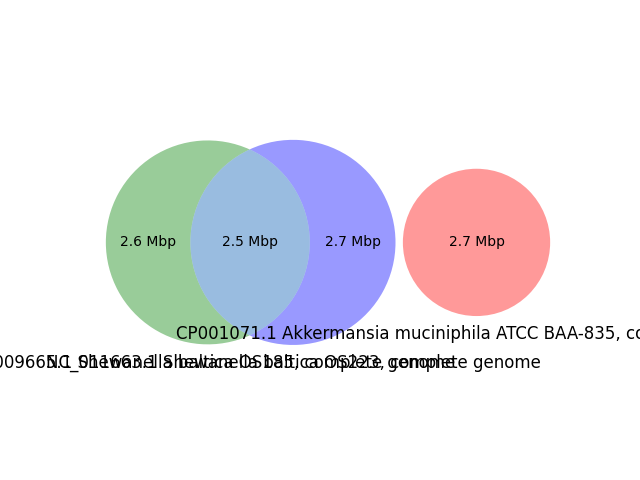
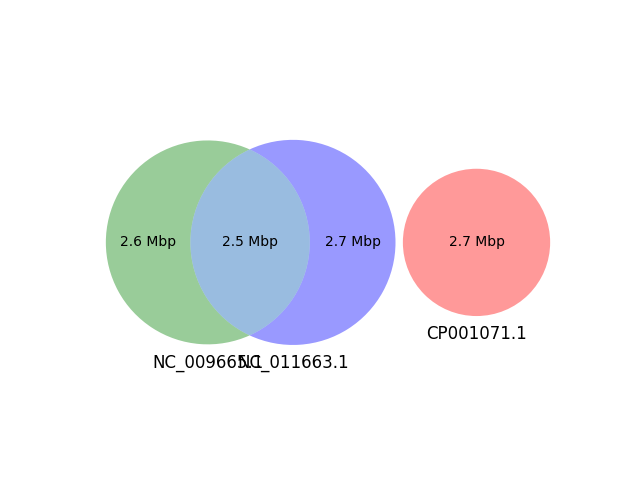
more upd

Changed region(s): [[0.0, 0.6562, 1.0, 0.7812]]

diff --git a/README.md b/README.md
@@ -380,7 +380,7 @@ Plot a Venn diagram of the intersections between two or three sketches.
 This command:
 ```
 sourmash scripts venn sketches/{2,47,63}.sig.zip \
-    -o 3sketches.venn.png
+    -o 3sketches.venn.png --ident
 ```
 
 produces:
